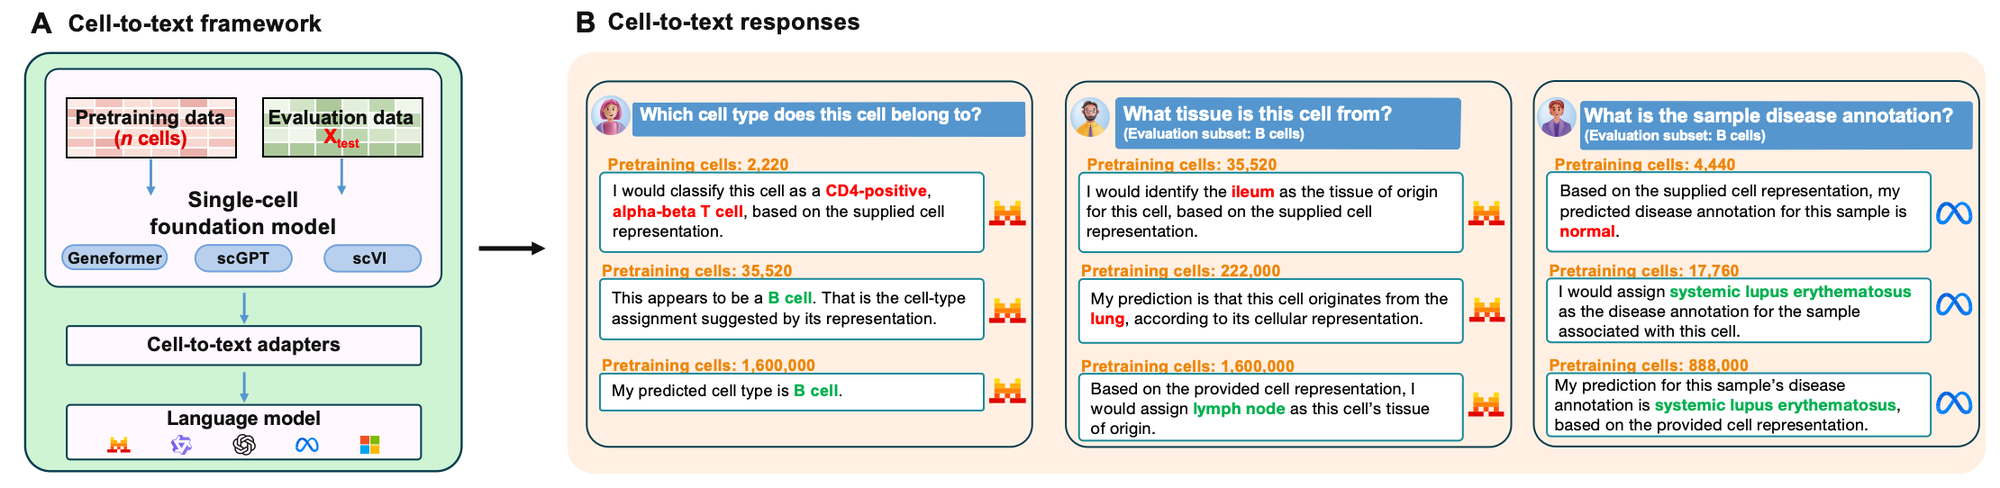
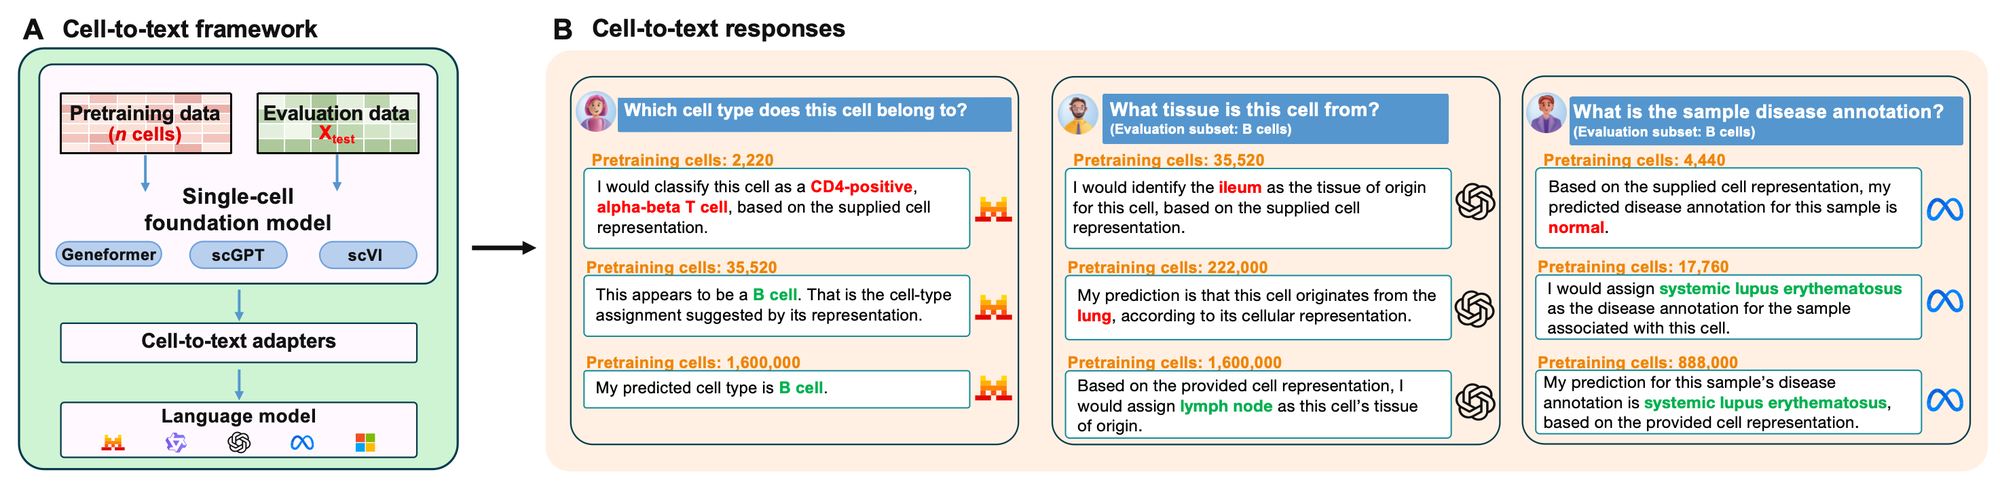
Update cell-to-text figure

Changed region(s): [[0.0, 0.0309, 0.992, 0.9897]]

diff --git a/static/research/scaling-laws/index.html b/static/research/scaling-laws/index.html
@@ -57,7 +57,7 @@
       <h3>Scaling in AI pretraining</h3>
       <p>In machine learning, scaling laws that link performance to data, model size, and compute have guided model development and resource allocation. How they extend to single-cell foundation models remains open, since downstream gains can plateau after pretraining on only a fraction of the available data. We extend our framework to AI pretraining and to multimodal models that connect cellular representations with large language models. This shows how pretraining scale, model choice, and test-data quality shape biological information recovery, including in the generated text.</p>
       <figure>
-        <a href="cell-to-text.png" target="_blank" rel="noopener"><img src="cell-to-text.png" alt="A: cell-to-text framework in which a single-cell foundation model pretrained on n cells feeds cell-to-text adapters and a language model. B: example answers about cell type, tissue and disease, which become correct as the number of pretraining cells grows." width="2000" height="488"></a>
+        <a href="cell-to-text.png?v=2" target="_blank" rel="noopener"><img src="cell-to-text.png?v=2" alt="A: cell-to-text framework in which a single-cell foundation model pretrained on n cells feeds cell-to-text adapters and a language model. B: example answers about cell type, tissue and disease, which become correct as the number of pretraining cells grows." width="2000" height="485"></a>
         <figcaption>(A) Foundation-model representations are passed through cell-to-text adapters into a language model. (B) The same questions answered by models pretrained on more cells: answers shift from wrong (red) to correct (green).</figcaption>
       </figure>
 
